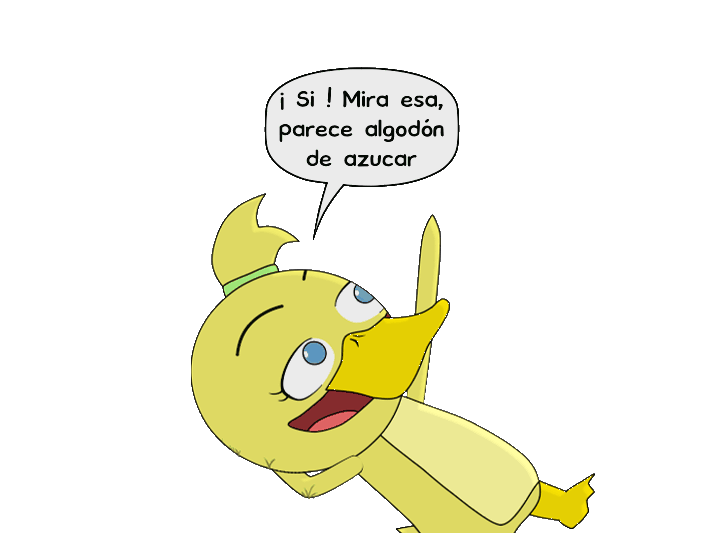
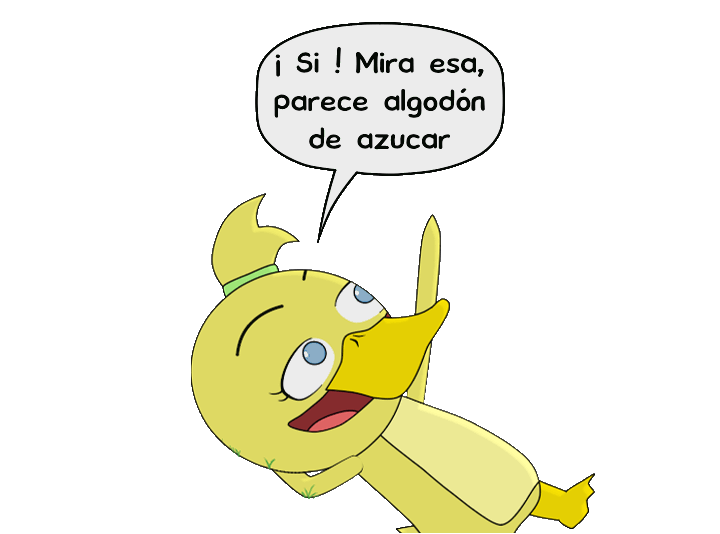
Comic actualizado

diff --git a/comic/scripts/ef023d69e9524cb7b15308d02de8c242.js b/comic/scripts/ef023d69e9524cb7b15308d02de8c242.js
@@ -1,6 +1,6 @@
 'use strict';
 
-var c6a536685738426f954a5401c6b75fc0 = {};
+var ef023d69e9524cb7b15308d02de8c242 = {};
 
 lm.AddLoadEvent(function()
 {
@@ -252,11 +252,11 @@ var docStr = '{\
 {"_lmType_":"ImageLayer",\
 "translation":{"_lmType_":"AnimVec3",\
 "when":[0],\
-"val":[{"x":0,"y":-0.852854,"z":0}],\
+"val":[{"x":0,"y":-0.432172,"z":0}],\
 "interp":[{"mode":1,"hold":0,"val1":0.1,"val2":0.5}]},\
 "scale":{"_lmType_":"AnimVec3",\
 "when":[0],\
-"val":[{"x":0.339498,"y":0.339498,"z":0.339498}],\
+"val":[{"x":0.339498,"y":0.449362,"z":0.339498}],\
 "interp":[{"mode":1,"hold":0,"val1":0.1,"val2":0.5}]},\
 "name":"03",\
 "origin":{"x":0,"y":0},\
@@ -279,11 +279,11 @@ var docStr = '{\
 {"_lmType_":"ImageLayer",\
 "translation":{"_lmType_":"AnimVec3",\
 "when":[0,21],\
-"val":[{"x":0.237502,"y":0.205116,"z":0},{"x":0.107956,"y":0.205116,"z":0}],\
+"val":[{"x":0.237502,"y":0.205116,"z":0},{"x":-0.005305,"y":0.205116,"z":0}],\
 "interp":[{"mode":1,"hold":0,"val1":0.1,"val2":0.5},{"mode":1,"hold":0,"val1":0.1,"val2":0.5}]},\
 "scale":{"_lmType_":"AnimVec3",\
 "when":[0,21],\
-"val":[{"x":0.771977,"y":0.771977,"z":0.771977},{"x":0.771977,"y":0.771977,"z":0.771977}],\
+"val":[{"x":0.917888,"y":0.917888,"z":0.917888},{"x":0.930173,"y":0.930173,"z":0.930173}],\
 "interp":[{"mode":1,"hold":0,"val1":0.1,"val2":0.5},{"mode":1,"hold":0,"val1":0.1,"val2":0.5}]},\
 "rotationZ":{"_lmType_":"AnimVal",\
 "when":[0,21],\
@@ -359,11 +359,11 @@ var docStr = '{\
 {"_lmType_":"ImageLayer",\
 "translation":{"_lmType_":"AnimVec3",\
 "when":[0],\
-"val":[{"x":0,"y":0.077484,"z":0}],\
+"val":[{"x":-0.102745,"y":0.003508,"z":0}],\
 "interp":[{"mode":1,"hold":0,"val1":0.1,"val2":0.5}]},\
 "scale":{"_lmType_":"AnimVec3",\
 "when":[0],\
-"val":[{"x":0.589027,"y":0.589027,"z":0.589027}],\
+"val":[{"x":0.555084,"y":0.555084,"z":0.555084}],\
 "interp":[{"mode":1,"hold":0,"val1":0.1,"val2":0.5}]},\
 "name":"04",\
 "origin":{"x":0,"y":0},\
@@ -534,11 +534,11 @@ var docStr = '{\
 {"_lmType_":"ImageLayer",\
 "translation":{"_lmType_":"AnimVec3",\
 "when":[0],\
-"val":[{"x":0,"y":-0.031779,"z":0}],\
+"val":[{"x":0,"y":-0.0318,"z":0}],\
 "interp":[{"mode":1,"hold":0,"val1":0.1,"val2":0.5}]},\
 "scale":{"_lmType_":"AnimVec3",\
 "when":[0],\
-"val":[{"x":0.30387,"y":0.30387,"z":0.30387}],\
+"val":[{"x":0.3039,"y":0.3039,"z":0.3039}],\
 "interp":[{"mode":1,"hold":0,"val1":0.1,"val2":0.5}]},\
 "name":"06",\
 "origin":{"x":0,"y":0},\
@@ -601,25 +601,25 @@ var docStr = '{\
 "points":[{"x":-1.994037,"y":0.520502},{"x":1.994037,"y":0.520502},{"x":1.994037,"y":-0.520502},{"x":-1.994037,"y":-0.520502}]},\
 {"_lmType_":"ImageLayer",\
 "translation":{"_lmType_":"AnimVec3",\
-"when":[0,24],\
-"val":[{"x":0,"y":-0.136941,"z":0},{"x":0,"y":-0.256764,"z":0}],\
-"interp":[{"mode":1,"hold":0,"val1":0.1,"val2":0.5},{"mode":1,"hold":0,"val1":0.1,"val2":0.5}]},\
+"when":[0,24,27],\
+"val":[{"x":0,"y":-0.136941,"z":0},{"x":0,"y":-0.256764,"z":0},{"x":0,"y":-0.26232,"z":0}],\
+"interp":[{"mode":1,"hold":0,"val1":0.1,"val2":0.5},{"mode":1,"hold":0,"val1":0.1,"val2":0.5},{"mode":1,"hold":0,"val1":0.1,"val2":0.5}]},\
 "scale":{"_lmType_":"AnimVec3",\
-"when":[0,24],\
-"val":[{"x":0.664406,"y":0.664406,"z":0.664406},{"x":0.664406,"y":0.664406,"z":0.664406}],\
-"interp":[{"mode":1,"hold":0,"val1":0.1,"val2":0.5},{"mode":1,"hold":0,"val1":0.1,"val2":0.5}]},\
+"when":[0,24,27],\
+"val":[{"x":0.664406,"y":0.664406,"z":0.664406},{"x":0.664406,"y":0.664406,"z":0.664406},{"x":0.664406,"y":0.664406,"z":0.664406}],\
+"interp":[{"mode":1,"hold":0,"val1":0.1,"val2":0.5},{"mode":1,"hold":0,"val1":0.1,"val2":0.5},{"mode":1,"hold":0,"val1":0.1,"val2":0.5}]},\
 "rotationZ":{"_lmType_":"AnimVal",\
-"when":[0,24],\
-"val":[0,0],\
-"interp":[{"mode":1,"hold":0,"val1":0.1,"val2":0.5},{"mode":1,"hold":0,"val1":0.1,"val2":0.5}]},\
+"when":[0,24,27],\
+"val":[0,0,0],\
+"interp":[{"mode":1,"hold":0,"val1":0.1,"val2":0.5},{"mode":1,"hold":0,"val1":0.1,"val2":0.5},{"mode":1,"hold":0,"val1":0.1,"val2":0.5}]},\
 "blur":{"_lmType_":"AnimVal",\
-"when":[0,24],\
-"val":[0,0],\
-"interp":[{"mode":1,"hold":0,"val1":0.1,"val2":0.5},{"mode":1,"hold":0,"val1":0.1,"val2":0.5}]},\
+"when":[0,24,27],\
+"val":[0,0,0],\
+"interp":[{"mode":1,"hold":0,"val1":0.1,"val2":0.5},{"mode":1,"hold":0,"val1":0.1,"val2":0.5},{"mode":1,"hold":0,"val1":0.1,"val2":0.5}]},\
 "alpha":{"_lmType_":"AnimVal",\
-"when":[0,24],\
-"val":[1,1],\
-"interp":[{"mode":1,"hold":0,"val1":0.1,"val2":0.5},{"mode":1,"hold":0,"val1":0.1,"val2":0.5}]},\
+"when":[0,24,27],\
+"val":[1,1,1],\
+"interp":[{"mode":1,"hold":0,"val1":0.1,"val2":0.5},{"mode":1,"hold":0,"val1":0.1,"val2":0.5},{"mode":1,"hold":0,"val1":0.1,"val2":0.5}]},\
 "name":"07",\
 "origin":{"x":0,"y":0},\
 "parentBone":-3,\
@@ -708,25 +708,25 @@ var docStr = '{\
 "pixelHeight":534},\
 {"_lmType_":"ImageLayer",\
 "translation":{"_lmType_":"AnimVec3",\
-"when":[0,50,158],\
-"val":[{"x":0.055831,"y":0.312653,"z":0},{"x":0.161286,"y":0.312653,"z":0},{"x":-0.111662,"y":0.312653,"z":0}],\
-"interp":[{"mode":1,"hold":0,"val1":0.1,"val2":0.5},{"mode":1,"hold":0,"val1":0.1,"val2":0.5},{"mode":1,"hold":0,"val1":0.1,"val2":0.5}]},\
+"when":[0,50,113,158],\
+"val":[{"x":0.055831,"y":0.312653,"z":0},{"x":0.161286,"y":0.312653,"z":0},{"x":-0.126577,"y":0.312653,"z":0},{"x":-0.111662,"y":0.312653,"z":0}],\
+"interp":[{"mode":1,"hold":0,"val1":0.1,"val2":0.5},{"mode":1,"hold":0,"val1":0.1,"val2":0.5},{"mode":1,"hold":0,"val1":0.1,"val2":0.5},{"mode":1,"hold":0,"val1":0.1,"val2":0.5}]},\
 "scale":{"_lmType_":"AnimVec3",\
-"when":[0,50,158],\
-"val":[{"x":0.627246,"y":0.627246,"z":0.627246},{"x":0.627246,"y":0.627246,"z":0.627246},{"x":0.627246,"y":0.627246,"z":0.627246}],\
-"interp":[{"mode":1,"hold":0,"val1":0.1,"val2":0.5},{"mode":1,"hold":0,"val1":0.1,"val2":0.5},{"mode":1,"hold":0,"val1":0.1,"val2":0.5}]},\
+"when":[0,50,113,158],\
+"val":[{"x":0.627246,"y":0.627246,"z":0.627246},{"x":0.627246,"y":0.627246,"z":0.627246},{"x":0.627246,"y":0.627246,"z":0.627246},{"x":0.627246,"y":0.627246,"z":0.627246}],\
+"interp":[{"mode":1,"hold":0,"val1":0.1,"val2":0.5},{"mode":1,"hold":0,"val1":0.1,"val2":0.5},{"mode":1,"hold":0,"val1":0.1,"val2":0.5},{"mode":1,"hold":0,"val1":0.1,"val2":0.5}]},\
 "rotationZ":{"_lmType_":"AnimVal",\
-"when":[0,50,158],\
-"val":[0.112897,0.112897,0.112897],\
-"interp":[{"mode":1,"hold":0,"val1":0.1,"val2":0.5},{"mode":1,"hold":0,"val1":0.1,"val2":0.5},{"mode":1,"hold":0,"val1":0.1,"val2":0.5}]},\
+"when":[0,50,113,158],\
+"val":[0.112897,0.112897,0.112897,0.112897],\
+"interp":[{"mode":1,"hold":0,"val1":0.1,"val2":0.5},{"mode":1,"hold":0,"val1":0.1,"val2":0.5},{"mode":1,"hold":0,"val1":0.1,"val2":0.5},{"mode":1,"hold":0,"val1":0.1,"val2":0.5}]},\
 "blur":{"_lmType_":"AnimVal",\
-"when":[0,50,158],\
-"val":[0,0,0],\
-"interp":[{"mode":1,"hold":0,"val1":0.1,"val2":0.5},{"mode":1,"hold":0,"val1":0.1,"val2":0.5},{"mode":1,"hold":0,"val1":0.1,"val2":0.5}]},\
+"when":[0,50,113,158],\
+"val":[0,0,0,0],\
+"interp":[{"mode":1,"hold":0,"val1":0.1,"val2":0.5},{"mode":1,"hold":0,"val1":0.1,"val2":0.5},{"mode":1,"hold":0,"val1":0.1,"val2":0.5},{"mode":1,"hold":0,"val1":0.1,"val2":0.5}]},\
 "alpha":{"_lmType_":"AnimVal",\
-"when":[0,50,158],\
-"val":[1,1,1],\
-"interp":[{"mode":1,"hold":0,"val1":0.1,"val2":0.5},{"mode":1,"hold":0,"val1":0.1,"val2":0.5},{"mode":1,"hold":0,"val1":0.1,"val2":0.5}]},\
+"when":[0,50,113,158],\
+"val":[1,1,1,1],\
+"interp":[{"mode":1,"hold":0,"val1":0.1,"val2":0.5},{"mode":1,"hold":0,"val1":0.1,"val2":0.5},{"mode":1,"hold":0,"val1":0.1,"val2":0.5},{"mode":1,"hold":0,"val1":0.1,"val2":0.5}]},\
 "name":"08B",\
 "origin":{"x":0,"y":0},\
 "parentBone":-3,\
@@ -820,8 +820,8 @@ var docStr = '{\
 ]}\
 ]}';
 
-	c6a536685738426f954a5401c6b75fc0.doc = lm.Unserialize(docStr);
-	c6a536685738426f954a5401c6b75fc0.view = new MohoView("c6a536685738426f954a5401c6b75fc0_canvas");
-	c6a536685738426f954a5401c6b75fc0.view.SetDocument(c6a536685738426f954a5401c6b75fc0.doc);
-	CreateMohoPlaybackControls("c6a536685738426f954a5401c6b75fc0", c6a536685738426f954a5401c6b75fc0.view);
+	ef023d69e9524cb7b15308d02de8c242.doc = lm.Unserialize(docStr);
+	ef023d69e9524cb7b15308d02de8c242.view = new MohoView("ef023d69e9524cb7b15308d02de8c242_canvas");
+	ef023d69e9524cb7b15308d02de8c242.view.SetDocument(ef023d69e9524cb7b15308d02de8c242.doc);
+	CreateMohoPlaybackControls("ef023d69e9524cb7b15308d02de8c242", ef023d69e9524cb7b15308d02de8c242.view);
 });

diff --git a/comic/index.html b/comic/index.html
@@ -6,15 +6,14 @@
 	<meta charset="utf-8">
 	<meta name="viewport" content="width=device-width, initial-scale=1.0, maximum-scale=1.0, user-scalable=no">
 	<title>MotionArtist - comic03</title>
-	<link rel="stylesheet" type="text/css" href="css/Black.css">
 	<link rel="stylesheet" type="text/css" href="http://producturlsupport.com/js/maplayer/1.3/motionartist.css">
 	<script src="http://producturlsupport.com/js/maplayer/1.3/motionartist.js"></script>
-	<script src="scripts/c6a536685738426f954a5401c6b75fc0.js"></script>
+	<script src="scripts/ef023d69e9524cb7b15308d02de8c242.js"></script>
 </head>
 <body>
 
 <div class="MADoc">
-	<canvas id="c6a536685738426f954a5401c6b75fc0_canvas" width="426" height="240"></canvas>
+	<canvas id="ef023d69e9524cb7b15308d02de8c242_canvas" width="426" height="240"></canvas>
 </div>
 
 </body>

diff --git a/para-estudiantes.html b/para-estudiantes.html
@@ -345,6 +345,7 @@
 					¡Prueba los ejercicios!
 				</h2>
 				<p>Aquí podrás conocer los ejercicios que hemos creado para ti. Haz clic aquí. </p>
+				<br>
 
 				<!--p>
 					Selecciona un eje de contenido y un tipo de ejercicio:
